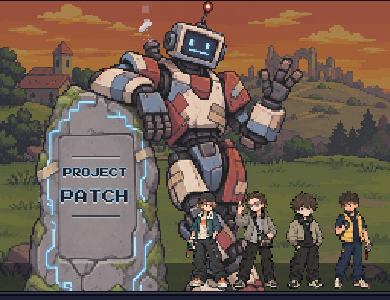
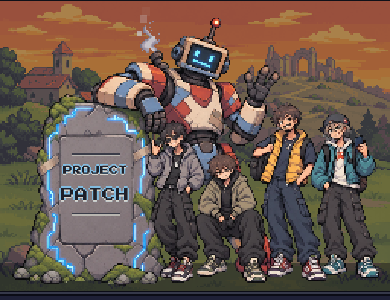
Title: the owner's group picture (PATCH, the runestone and the four together) with the name carved in
Claude-Session: https://claude.ai/code/session_017dBWVqKZVfxg7CAB4avMjK

diff --git a/game/src/scenes/TitleScene.ts b/game/src/scenes/TitleScene.ts
@@ -2,7 +2,7 @@ import Phaser from 'phaser';
 import { SCREEN_H, SCREEN_W, ZOOM } from '../config';
 import { SPECIES } from '../engine/data';
 import { MAPS, START } from '../engine/overworld';
-import { CHARACTERS, SQUAD, stageOf, type Progress } from '../engine/progress';
+import { CHARACTERS, stageOf, type Progress } from '../engine/progress';
 import { clearProgress } from '../save';
 import { button, buttonPagePoint, faceIcon, hinge, listRow, screenBackdrop } from '../ui/kit';
 import { settingsPanel, speedPreview } from '../ui/settingsPanel';
@@ -55,18 +55,13 @@ export class TitleScene extends Phaser.Scene {
     const g = this.add.graphics();
     g.fillStyle(0x0d0e1a, 0.35).fillRect(0, 0, SCREEN_W, SCREEN_H);
     g.fillStyle(0x0d0e1a, 0.45).fillRect(0, SCREEN_H - 20, SCREEN_W, 20);
-    // PATCH leaning on the runestone (the owner's art), the name carved in its panel, his
-    // shoulder vent still smoking; the four stand in front of his legs, a third of his height.
-    const art = this.add.container(4, 0);
-    art.add(this.add.image(0, SCREEN_H + 20, titleKey('patch_runestone')).setOrigin(0, 1));
-    this.carveTitle(art, 59, 127);
-    this.tweens.add({ targets: art, y: -1, duration: 1800, yoyo: true, repeat: -1, ease: 'Sine.easeInOut' });
-    this.time.addEvent({ delay: 520, loop: true, callback: () => this.puff(art.x + 92, art.y + 18) });
-    const xs = [136, 168, 200, 232];
-    SQUAD.forEach((id, i) => {
-      const key = this.textures.exists(titleKey(id)) ? titleKey(id) : walkKey(id);
-      this.add.image(xs[i], SCREEN_H - 3, key, key === walkKey(id) ? 0 : undefined).setOrigin(0.5, 1).setFlipX(i >= 2);
-    });
+    // The owner's group picture: PATCH on the runestone with the four, the name carved in its panel,
+    // his shoulder vent still smoking.
+    const art = this.add.container(8, SCREEN_H - 4 - 176);
+    art.add(this.add.image(0, 0, titleKey('title_group')).setOrigin(0, 0));
+    this.carveTitle(art, 55, 114);
+    this.tweens.add({ targets: art, y: art.y - 1, duration: 1800, yoyo: true, repeat: -1, ease: 'Sine.easeInOut' });
+    this.time.addEvent({ delay: 520, loop: true, callback: () => this.puff(art.x + 85, art.y + 12) });
   }
 
   /** PROJECT PATCH cut into the stone's blank panel: dark grooves, a pale lower lip, a faint rune glow. */

diff --git a/art/tools/title_art.py b/art/tools/title_art.py
@@ -13,6 +13,7 @@ from PIL import Image
 
 PATCH_H = 212
 FRIEND_H = 64
+GROUP_H = 176
 OUT = 'art/title/out'
 
 if __name__ == '__main__':
@@ -23,6 +24,13 @@ if __name__ == '__main__':
     im = sb.sample(*sb.cut(src, (0, 0, w, h), holes=40))
     im.save(f'{OUT}/patch_runestone.png')
     print('patch_runestone', im.size)
+    # The owner's whole group in one picture (PATCH, the stone and the four): fits the top screen.
+    sb.TARGET_H = GROUP_H
+    src = 'art/concepts/title/title_group.png'
+    w, h = Image.open(src).size
+    im = sb.sample(*sb.cut(src, (0, 0, w, h), holes=40))
+    im.save(f'{OUT}/title_group.png')
+    print('title_group', im.size)
     sb.TARGET_H = FRIEND_H
     for cid, box in sb.BOXES.items():
         im = sb.sample(*sb.cut(f'art/concepts/trainers/{cid}.png', box))
